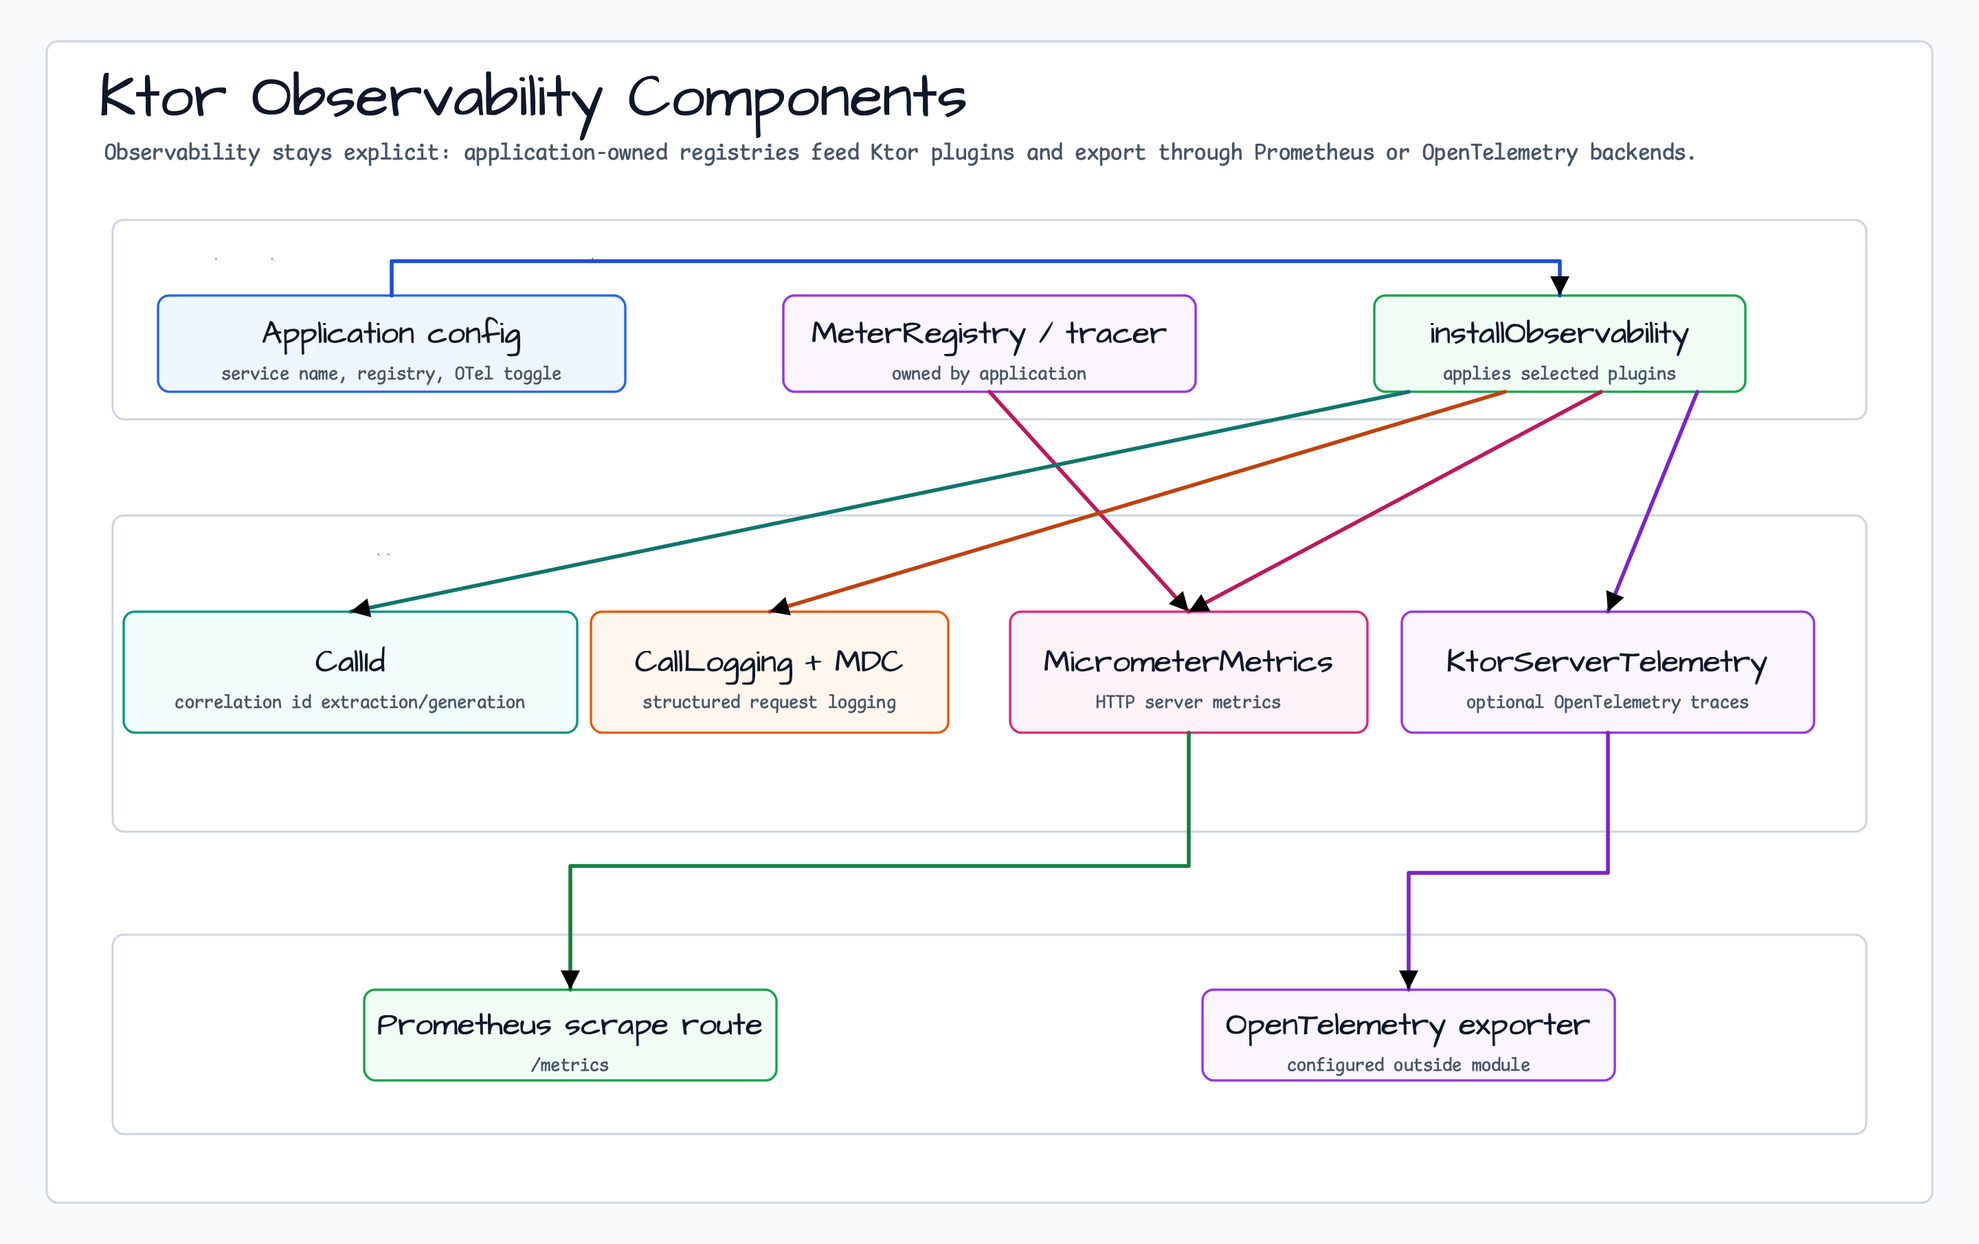
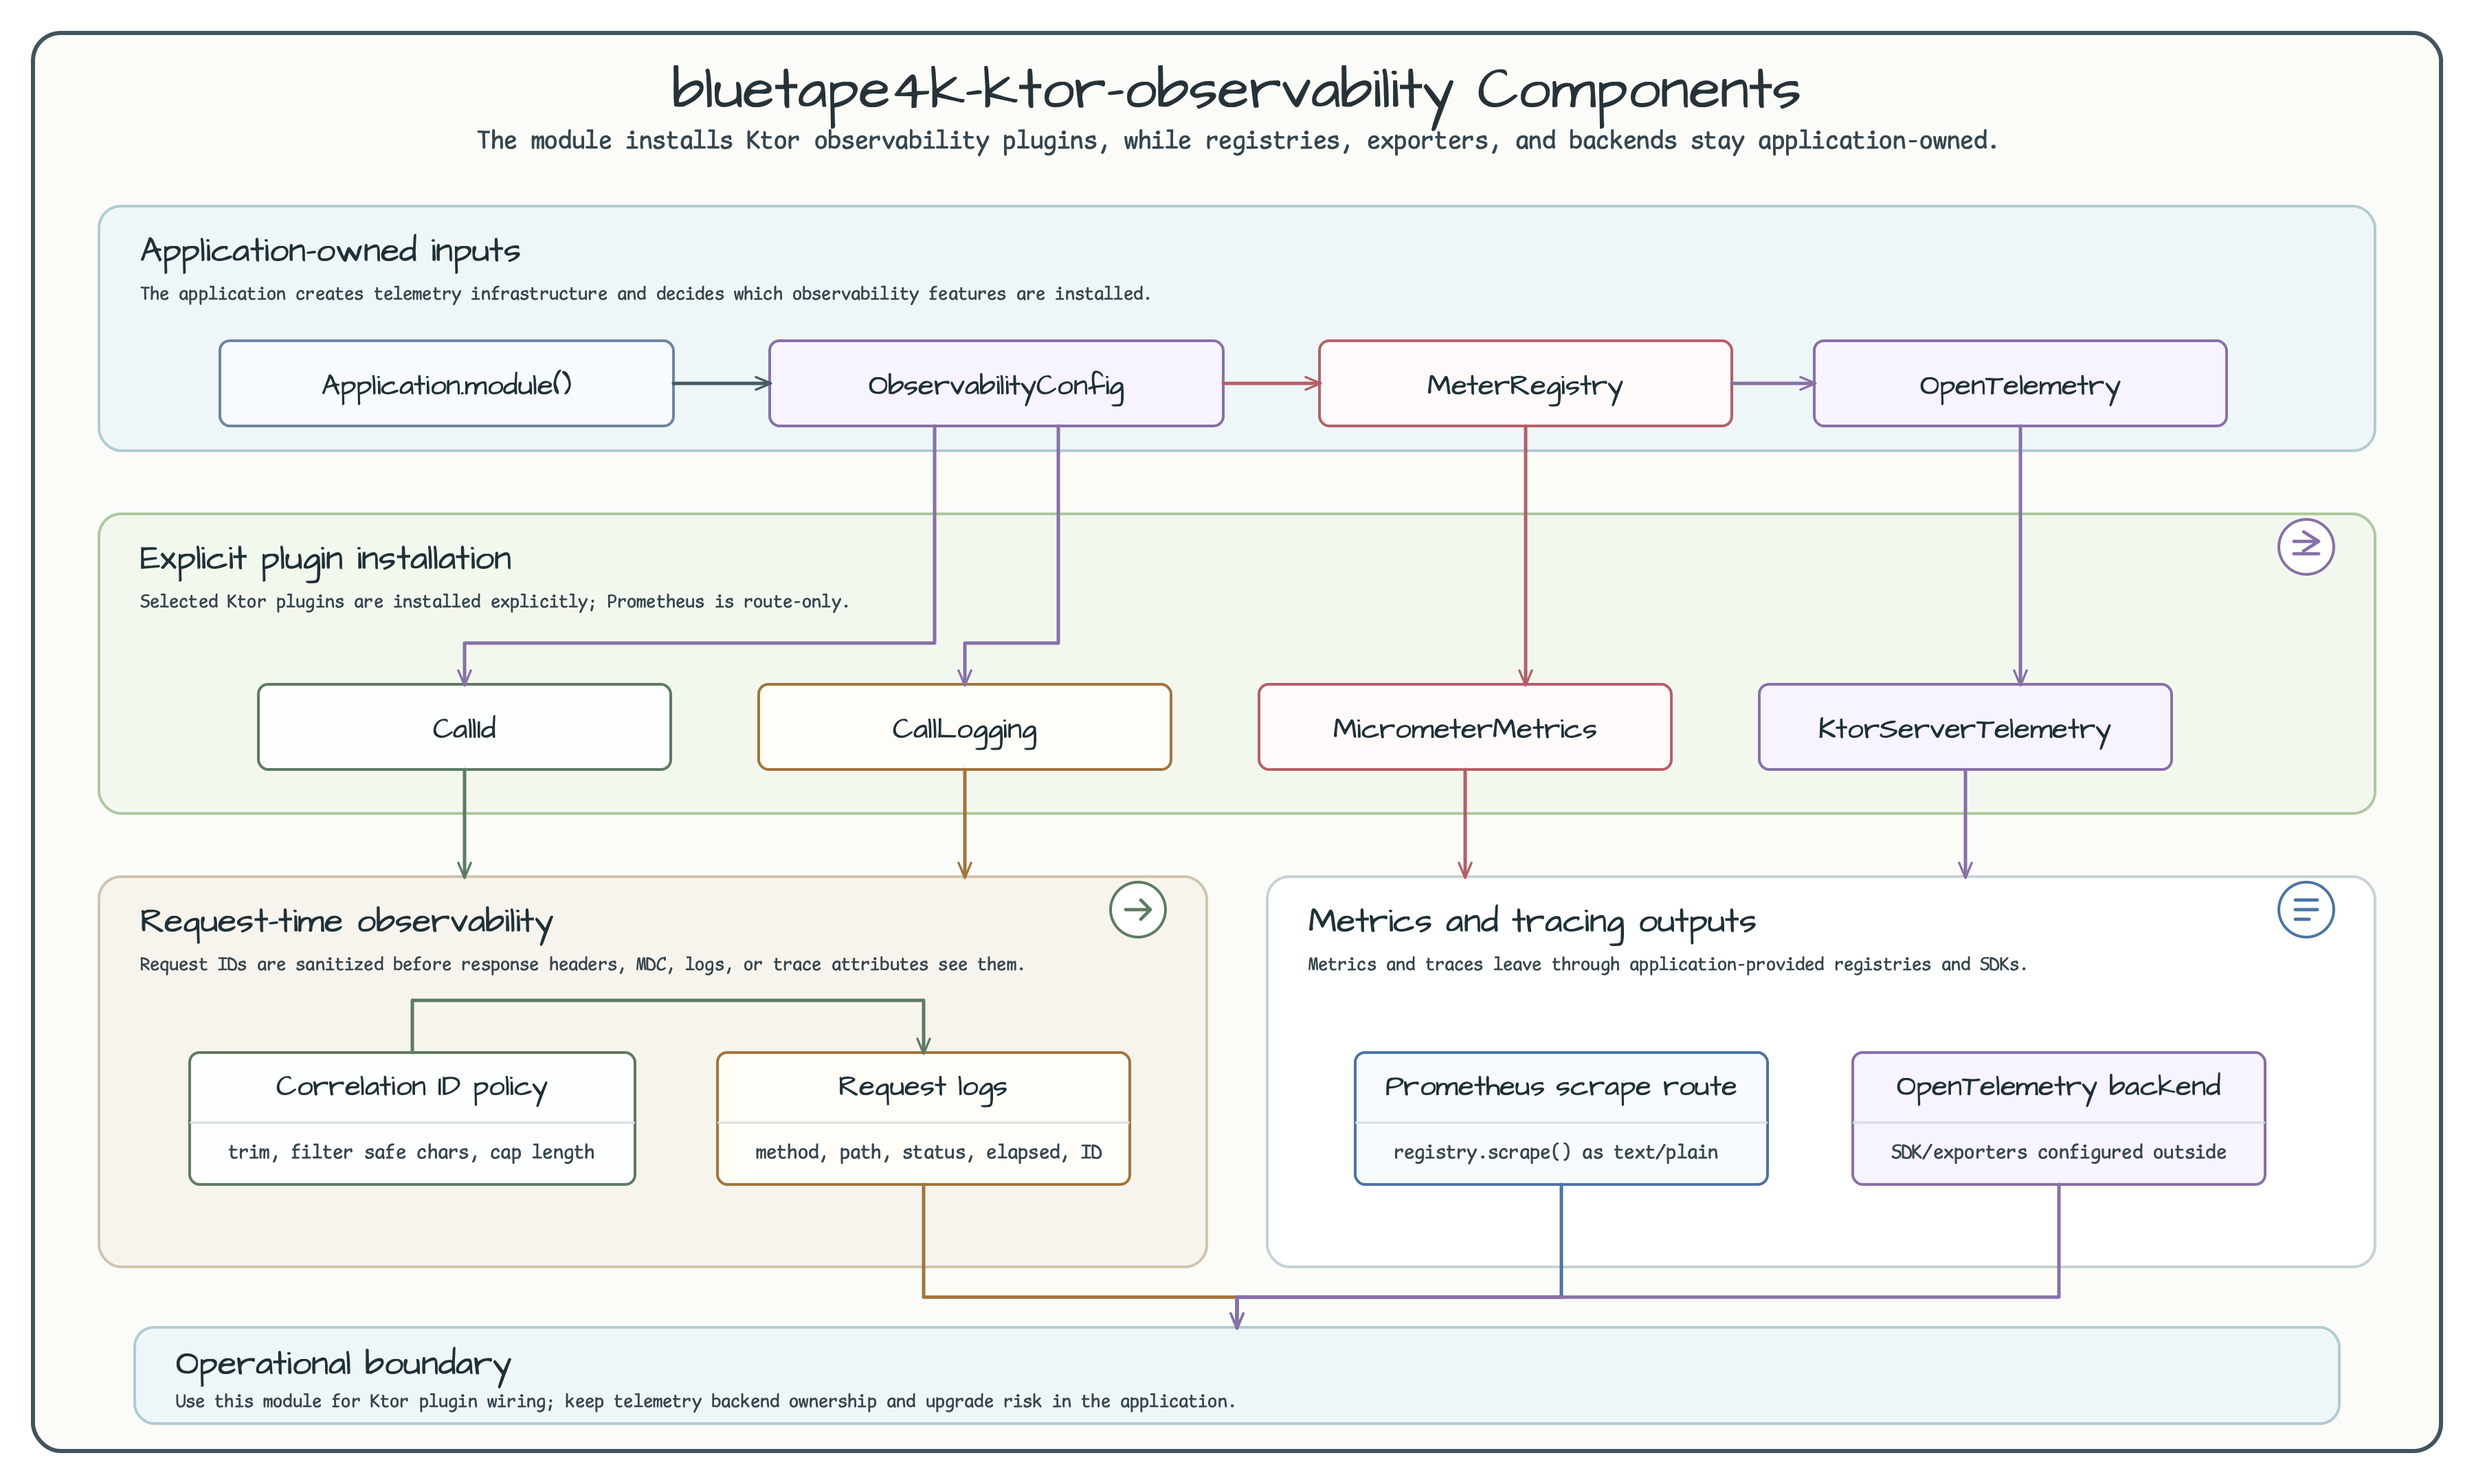
docs: clarify ktor observability components
Constraint: the observability diagram must show application-owned registry/tracing inputs and card-to-card plugin wiring, not layer-boundary shortcuts.\nRejected: Leaving ObservabilityConfig connected to the installation layer | it obscured which concrete Ktor plugins are installed.\nConfidence: high\nScope-risk: narrow\nDirective: Preserve explicit ownership boundaries: this module wires Ktor plugins, while registries, exporters, and backends remain application-owned.\nTested: Parsed SVG XML, scanned forbidden diagram patterns, verified README image links, rendered the PNG with CairoSVG, inspected the rendered PNG visually after rerouting, and ran git diff --check for the touched files.\nNot-tested: Gradle build; docs-only diagram and README wording change.

diff --git a/ktor/observability/README.ko.md b/ktor/observability/README.ko.md
@@ -2,20 +2,20 @@
 
 [English](./README.md) | [한국어](./README.ko.md)
 
-bluetape4k 생태계를 위한 Ktor observability helper 모듈입니다.
+bluetape4k 애플리케이션에서 관측성 기본값을 명시적으로 설치하는 Ktor 모듈입니다.
 
-## Component Diagram
+## 컴포넌트 다이어그램
 
 ![Ktor Observability Components](../../docs/images/readme-diagrams/ktor-observability-component-01.png)
 
 ## 기능
 
-- `installBluetape4kKtorObservability()` 명시적 Ktor observability 설정.
-- Ktor `CallId` 기반 sanitized correlation ID 전파.
-- query string을 제외한 기본 로그 메시지와 `CallLogging` MDC 연동.
-- 애플리케이션이 `MeterRegistry`를 제공할 때 Micrometer `MicrometerMetrics` 설치.
-- 애플리케이션이 소유한 `PrometheusMeterRegistry` 기반 선택적 scrape route.
-- 애플리케이션이 소유한 `OpenTelemetry` 인스턴스 기반 선택적 서버 tracing.
+- `installBluetape4kKtorObservability()`는 선택한 Ktor 관측성 플러그인을 명시적으로 설치합니다.
+- Ktor `CallId`는 정제된 correlation ID만 전파합니다.
+- `CallLogging`은 query string을 제외한 기본 로그 메시지와 MDC를 함께 사용합니다.
+- 애플리케이션이 `MeterRegistry`를 제공할 때만 Micrometer `MicrometerMetrics`를 설치합니다.
+- `prometheusScrapeRoute()`는 애플리케이션이 소유한 `PrometheusMeterRegistry`로 scrape route를 엽니다.
+- 선택적 OpenTelemetry 서버 tracing은 애플리케이션이 소유한 `OpenTelemetry` 인스턴스를 사용합니다.
 
 ## 의존성
 
@@ -54,9 +54,8 @@ fun Application.module(registry: PrometheusMeterRegistry) {
 
 ## OpenTelemetry Tracing 사용 예
 
-Tracing은 명시적 opt-in입니다. OpenTelemetry SDK, exporter, propagator는
-애플리케이션에서 만들고, helper에는 완성된 `OpenTelemetry` 인스턴스만
-전달합니다.
+Tracing은 명시적으로 켜야 합니다. OpenTelemetry SDK, exporter, propagator는
+애플리케이션에서 만들고, helper에는 완성된 `OpenTelemetry` 인스턴스만 전달합니다.
 
 ```kotlin
 import io.bluetape4k.ktor.observability.Bluetape4kKtorObservabilityConfig
@@ -77,18 +76,18 @@ fun Application.module(openTelemetry: OpenTelemetry) {
 }
 ```
 
-`captureSanitizedCorrelationId`는 sanitized `correlation.id` trace attribute만
+`captureSanitizedCorrelationId`는 정제된 `correlation.id` trace attribute만
 기록합니다. raw request header는 기록하지 않습니다. traced request에는 bounded
-`correlation.present` attribute가 기록됩니다.
+`correlation.present` attribute가 항상 기록됩니다.
 
 ## 의존성 정책
 
 이 모듈은 Ktor `CallId`, `CallLogging`, `MicrometerMetrics`를 명시적으로
 설치합니다. 실제 `MeterRegistry`, exporter, tracing backend는 애플리케이션이
-소유합니다. OpenTelemetry tracing은 기본 설치하지 않습니다.
+소유합니다. OpenTelemetry tracing은 기본으로 설치하지 않습니다.
 `opentelemetry-ktor-3.0` instrumentation dependency는 tracing helper를 사용할 때만
-추가하세요. 해당 instrumentation은 OpenTelemetry alpha BOM에서 versioned되므로,
-애플리케이션 소유 telemetry setup을 쉽게 교체할 수 있게 유지하세요.
+추가하세요. 이 instrumentation의 version은 OpenTelemetry alpha BOM에서 정해지므로,
+애플리케이션이 소유한 telemetry 설정을 쉽게 교체할 수 있게 유지하는 편이 좋습니다.
 
-수신 correlation ID는 그대로 echo하지 않습니다. trim, safe character filtering,
+수신 correlation ID는 그대로 되돌려 보내지 않습니다. trim, safe character filtering,
 length cap을 거친 값만 MDC와 응답 헤더에 사용합니다.

diff --git a/ktor/observability/README.md b/ktor/observability/README.md
@@ -2,7 +2,7 @@
 
 [English](./README.md) | [한국어](./README.ko.md)
 
-Ktor observability helpers for the bluetape4k ecosystem.
+Explicit Ktor observability defaults for bluetape4k applications.
 
 ## Component Diagram
 
@@ -10,12 +10,12 @@ Ktor observability helpers for the bluetape4k ecosystem.
 
 ## Features
 
-- `installBluetape4kKtorObservability()` for explicit Ktor observability setup.
-- Sanitized correlation ID propagation through Ktor `CallId`.
-- `CallLogging` MDC integration with query-string-free default log messages.
-- Micrometer `MicrometerMetrics` installation when an application supplies a `MeterRegistry`.
-- Optional Prometheus scrape route backed by an application-owned `PrometheusMeterRegistry`.
-- Optional OpenTelemetry server tracing backed by an application-owned `OpenTelemetry` instance.
+- `installBluetape4kKtorObservability()` installs the selected Ktor observability plugins explicitly.
+- Ktor `CallId` propagates only sanitized correlation IDs.
+- `CallLogging` writes MDC-backed request logs without query strings in the default message.
+- `MicrometerMetrics` is installed only when the application supplies a `MeterRegistry`.
+- `prometheusScrapeRoute()` exposes an optional scrape route backed by an application-owned `PrometheusMeterRegistry`.
+- Optional OpenTelemetry server tracing uses the application-owned `OpenTelemetry` instance.
 
 ## Dependency
 
@@ -78,8 +78,8 @@ fun Application.module(openTelemetry: OpenTelemetry) {
 ```
 
 `captureSanitizedCorrelationId` records only the sanitized `correlation.id`
-trace attribute. It does not record the raw request header. A bounded
-`correlation.present` attribute is recorded on traced requests.
+trace attribute. Raw request headers are not recorded. Traced requests always
+record the bounded `correlation.present` attribute.
 
 ## Dependency Policy
 
